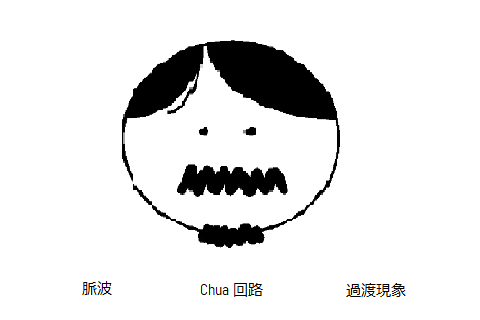
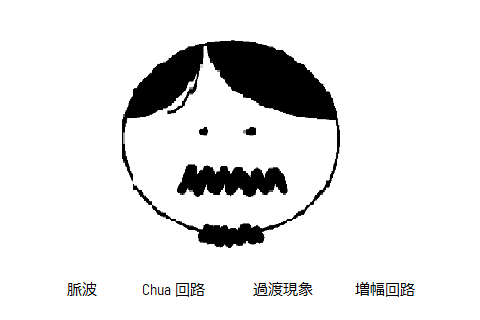
amp_mmの追加　コメントの間違いを修正

Changed region(s): [[0.2812, 0.875, 0.6562, 0.9375], [0.7188, 0.875, 0.875, 0.9375], [0.125, 0.875, 0.25, 0.9375]]

diff --git a/src/amp_mm.c b/src/amp_mm.c
@@ -1,7 +1,7 @@
 
 /*
-    gcc -o tp_mm tp_mm.c -lrt -lpthread
-    sudo ./tp_mm
+    gcc -o mesure mesure.c -lrt -lpthread
+    sudo ./mesure
 */
 
 //XXX: OSが裏で何かしに来た際などにずれが生じている OSが悪さをしないようにする必要がある
@@ -158,13 +158,6 @@ int spi_xfer(int miso, int mosi, int clk, int cs, int tx_buf){
     return data;
 }
 
-int flag = 0;
-int data_num = 2000;
-int datas[2500];
-
-time_t timer;
-struct tm *local;
-
 static volatile unsigned int *fbptr = NULL;
 
 void drawLine(int x0, int y0, int x1, int y1, int color, volatile unsigned int *canvas){
@@ -192,6 +185,13 @@ void drawLine(int x0, int y0, int x1, int y1, int color, volatile unsigned int *
 void drawPixcel(int x, int y, int color, volatile unsigned int *canvas){
     canvas[y*WIDTH+x] = color;
 }
+
+int level = 1300;
+int flag = 0;
+int data_num = 2000;
+int datas1[2500];
+int datas2[2500];
+int datas3[2500];
 
 void *get_data(void *arg){
     int miso = MISO;
@@ -249,23 +249,27 @@ void *get_data(void *arg){
         memcpy(graph, canvas, sizeof(canvas));
 
         for(int j=0; j<point_num; j++){
-            datas[j] = spi_xfer(miso, mosi, clk, cs, 0x600000);
+            datas1[j] = spi_xfer(miso, mosi, clk, cs, 0x600000);
+            datas2[j] = spi_xfer(miso, mosi, clk, cs, 0x640000);
+            datas3[j] = spi_xfer(miso, mosi, clk, cs, 0x680000);
         }
 
         int count = 0;
         int point = 1000;
         for(int j=0; j<point_num-1; j++){
-            if(datas[j] < 2130 && datas[j+1] >= 2130){
-                count++;
-            }
-            if(count == 2){
-                point = j;
-                break;
+            if(datas1[j] < level && datas1[j+1] > level){
+                if(j >= 250){
+                    point = j;
+                    break;
+                }
             }
         }
 
         for(int j=0; j<width-1; j++){
-            drawLine(j, height-((datas[point-240+j]-1849)*320)/400-30, j+1, height-((datas[point-239+j]-1849)*320)/400-30, 0xFF0000, graph);
+            drawLine(j, height-(datas2[point-240+j]*160)/4096-190, j+1, height-(datas2[point-239+j]*160)/4096-190, 0x00FF00, graph);
+            drawLine(j, height-(datas3[point-240+j]*160)/4096-190, j+1, height-(datas3[point-239+j]*160)/4096-190, 0x0000FF, graph);
+            drawLine(j, height-(level*160/4096)-30, j+1, height-(level*160/4096)-30, 0x00FFFF, graph);
+            drawLine(j, height-(datas1[point-240+j]*160)/4096-30, j+1, height-(datas1[point-239+j]*160)/4096-30, 0xFF0000, graph);
         }
 
         memcpy(fbptr, graph, sizeof(canvas));
@@ -282,7 +286,7 @@ void *get_data(void *arg){
             FILE *file = fopen(file_path, "w");
             
             for(int j=0; j<width-1; j++){
-                fprintf(file, "%d\n", datas[point-240+j]);
+                fprintf(file, "%d\n", datas1[point-240+j]);
             }
 
             fclose(file);
@@ -316,6 +320,33 @@ void *check_button(void *arg){
         if(gpio_read(SAVE_PIN) == 0){
             flag = 2;
             sleep(1);
+        }
+    }
+}
+
+void *check_rote(void *arg){
+    int r_enc_r = R_ENC_R;
+    int r_enc_l = R_ENC_L;
+
+    gpio_init();
+    gpio_configure(r_enc_r, GPIO_INPUT);
+    gpio_configure(r_enc_l, GPIO_INPUT);
+    
+    for(;;){
+        if(flag == 1){
+            printf("end check rote\n");
+            break;
+        }
+        if(gpio_read(r_enc_r) == 0 && gpio_read(r_enc_l) == 1){
+            if(level > 0) level -= 100;
+            usleep(5000*10);
+            printf("left\n");
+        }else if(gpio_read(r_enc_l) == 0 && gpio_read(r_enc_r) == 1){
+            if(level < 3000){
+                level += 100;
+            }
+            usleep(5000*10);
+            printf("right\n");
         }
     }
 }
@@ -363,11 +394,14 @@ int main()
 
     pthread_t get_data_thread;
     pthread_t check_button_thread;
+    pthread_t check_rote_thread;
 
     pthread_create(&get_data_thread, NULL, get_data, NULL);
+    pthread_create(&check_rote_thread, NULL, check_rote, NULL);
     pthread_create(&check_button_thread, NULL, check_button, NULL);
 
     pthread_join(get_data_thread, NULL);
+    pthread_join(check_rote_thread, NULL);
     pthread_join(check_button_thread, NULL);
     
     /*

diff --git a/src/main_menu.py b/src/main_menu.py
@@ -15,7 +15,8 @@ ROTE_R_PIN = 22
 
 command = ['sudo fbi -T 1 -d /dev/fb0 -noverbose /opt/sakulab_ex_module/img/main_menu_select_1.png', 
             'sudo fbi -T 1 -d /dev/fb0 -noverbose /opt/sakulab_ex_module/img/main_menu_select_2.png',
-            'sudo fbi -T 1 -d /dev/fb0 -noverbose /opt/sakulab_ex_module/img/main_menu_select_3.png']
+            'sudo fbi -T 1 -d /dev/fb0 -noverbose /opt/sakulab_ex_module/img/main_menu_select_3.png',
+            'sudo fbi -T 1 -d /dev/fb0 -noverbose /opt/sakulab_ex_module/img/main_menu_select_4.png']
     
 os.system(command[0])
 
@@ -29,7 +30,7 @@ def check_rote(gpio_pin):
     rote_r_pin = ROTE_R_PIN
     rote_l_pin = ROTE_L_PIN
     if(GPIO.input(rote_r_pin) == 0 and GPIO.input(rote_l_pin) == 1):
-        if(disp < 2):
+        if(disp < 3):
             disp += 1
     elif(GPIO.input(rote_r_pin) == 0 and GPIO.input(rote_l_pin) == 0):
         if(disp > 0):
@@ -48,6 +49,8 @@ def shutdown(gpio_pin):
         sys.stdout.write("-1")
         sys.exit()
 
+"""
+実装はまだしてないけどできるといいよね
 def update(gpio_pin):
     button1 = 1
     button2 = 1
@@ -62,6 +65,7 @@ def update(gpio_pin):
     if(button1 == 0 and button2 == 0 and button3 == 0):
         os.system("sudo git -C /opt/sakulab_ex_module pull")
         os.system("sudo reboot")
+"""
 
 if(__name__ == "__main__"):
     select_pin = SELECT_PIN

diff --git a/src/pulse_meter.c b/src/pulse_meter.c
@@ -1,7 +1,7 @@
 
 /*
-    gcc -o mesure mesure.c -lrt -lpthread
-    sudo ./mesure
+    gcc -o pulse_meter pulse_meter.c -lrt -lpthread
+    sudo ./pulse_meter
 */
 
 //XXX: OSが裏で何かしに来た際などにずれが生じている OSが悪さをしないようにする必要がある

diff --git a/src/chua_mm.c b/src/chua_mm.c
@@ -1,7 +1,7 @@
 
 /*
-    gcc -o mesure mesure.c -lrt -lpthread
-    sudo ./mesure
+    gcc -o chua_mm chua_mm.c -lrt -lpthread
+    sudo ./chua_mm
 */
 
 //XXX: OSが裏で何かしに来た際などにずれが生じている OSが悪さをしないようにする必要がある
